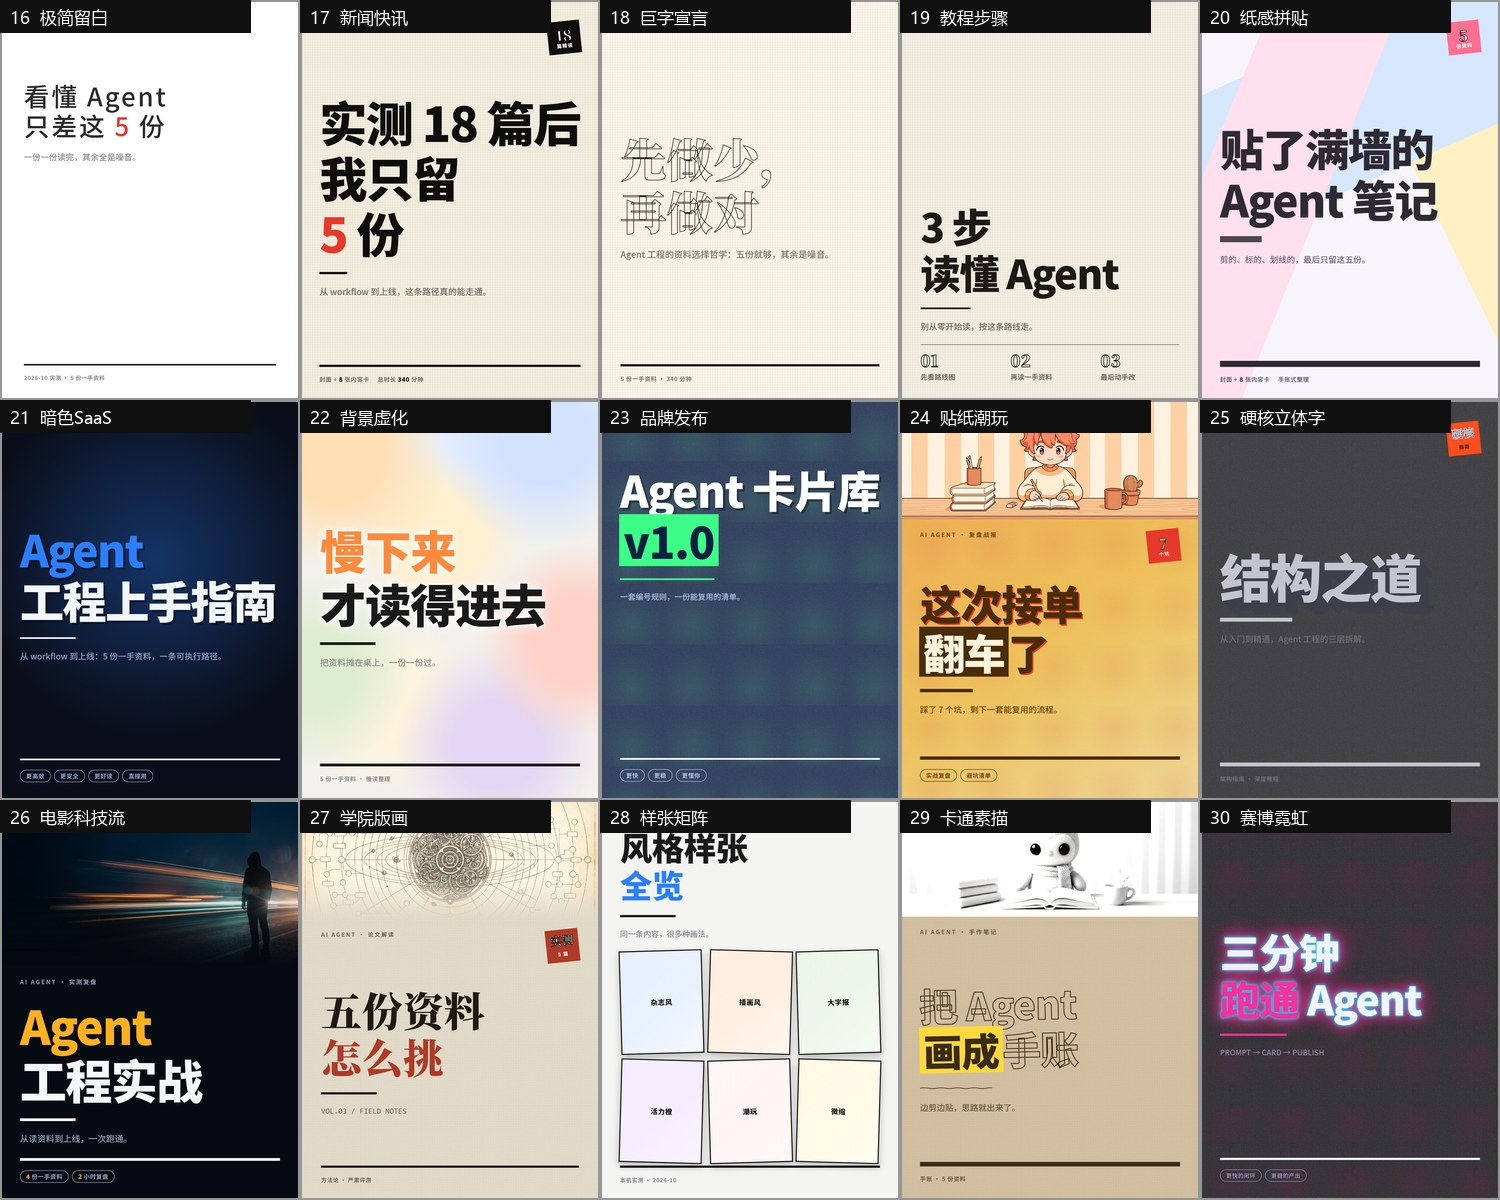
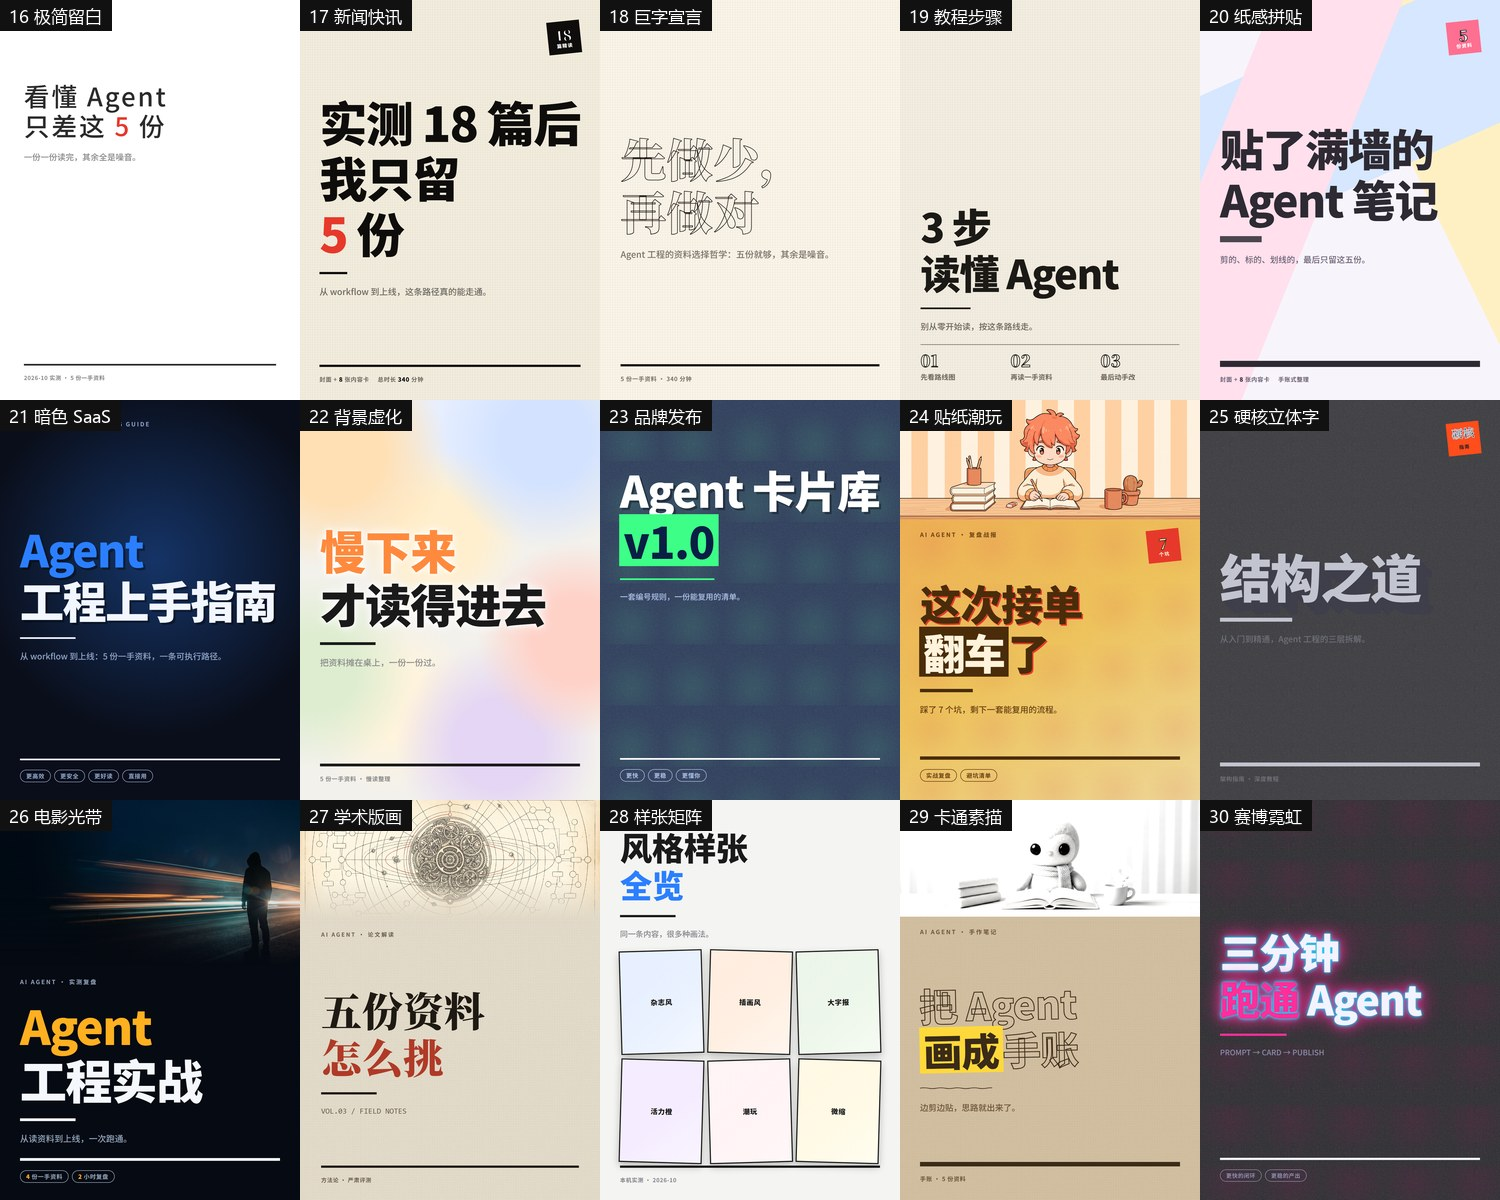
Register STYLE-16..30 as candidates; fix 27 double-accent and 26 name; document new poster tokens

diff --git a/references/STYLE-01-editorial.md b/references/STYLE-01-editorial.md
@@ -279,6 +279,48 @@ FAIL 00-cover    0 bytes  ⚠ ART MISSING — png deleted
 | `posterInk` / `posterInkMuted` | 标题与次要文字色。独立于 `colors.ink`（那个是按纸底调的） |
 | `posterTagInk` | 标签里 `<b>` 的颜色。亮底风格必调，否则白字压在橙底上看不清 |
 | `posterSealBg` / `posterSealInk` | 印章配色 |
-| `posterTexture` | `none` / `grain`（胶片噪点）/ `paper`（纸纹网格）/ `glow`（径向光晕） |
+| `posterSealNumSize` | 印章里的数字字号。默认 52px，两个中文字会挤（104px 塞进 118px 的章） |
+| `posterBlkBg` / `posterBlkInk` | 标题里 `<span class="blk">` 的色块底色与字色。默认取 `colors.accent` |
+| `posterTexture` | `none` / `grain`（胶片噪点）/ `paper`（纸纹网格）/ `glow`（径向光晕）/ `bokeh`（散景）/ `grid`（网格+光晕）。**可以写成数组**，多层会合成到同一个 `background-image` 里 |
+| `posterGlowAt` | `glow` 纹理的光晕位置，默认 `52% 40%` |
+| `posterBokeh` | `[[x%, y%, 半径%, 颜色], ...]`，散景光斑。纯 CSS 渐变堆出来，不依赖照片 |
 | `posterArtH` / `posterArtPosition` | 插画带高度与裁切焦点 |
+| `posterArtFade` | 插画带底部渐隐进底色的像素数。默认 0 = 硬边；照片带配深底必须开，否则会看到一条接缝 |
+| `posterArtFilter` | `none` / `sketch`（去色+提对比，3D 渲染变手绘线稿）/ `duo`（纯灰度） |
 | `posterRuleW` / `posterRuleH` | 标题下色条尺寸 |
+| `posterRuleColor` | 色条颜色，默认跟标题同色 |
+| `posterRuleStyle` | `solid` / `dashed` / `wavy`（手绘抖线） |
+| `posterRuleOpacity` | 色条不透明度 |
+| `posterTagStyle` | `plain` / `chip`（胶囊徽标） |
+| `posterFlow` | `bottom`（标题沉底，默认）/ `top`（标题紧跟眉题，中间留白） |
+| `posterTitleWeight` / `posterTitleLS` / `posterTitleFamily` | 标题字重 / 字距 / 字体栈 |
+| `posterTitleRotate` | 标题整体旋转角度（度） |
+| `posterSubFamily` | 副标题字体栈。学术/工业风用等宽，副标写英文才立得住 |
+| `posterStepsStyle` | `rule`（刻度时间线，默认）/ `flow`（发光管线，连线穿过数字） |
+| `posterGridCols` / `posterGridGap` / `posterGridTilt` | 样张矩阵的列数 / 间距 / 逐格错开角度 |
+| `posterGridFrame` / `posterGridBg` / `posterGridInk` | 样张矩阵的画框色 / 画芯底色 / 画芯字色 |
+| `posterGridTints` | 每格不同浅色渐变。全同色会立刻变回被否掉的 02–05 那种 PPT 表格 |
+| `posterBgGradient` | 额外叠一层底色渐变 |
+
+### 标题的特效（`titleEffect`）
+
+`''`（默认）/ `lift` / `outline` / `shadow` / `extrude` / `neon` / `glow` / `halo`。
+配套 token：`posterOutlineW`（描边粗细）、`posterOutlineColor`、`posterExtrudeStep` /
+`posterExtrudeLayers` / `posterExtrudeColor`、`posterNeonA` / `posterNeonB`、
+`posterGlowColor`、`posterHaloColor`、`posterShadowColor` / `posterShadowOffset`。
+
+两条实测出来的硬规矩：
+
+1. **描边必须配衬线体。** 思源黑体 900/700 的字腔太窄，2.6px 描边会把笔画全粘死成一团线框；
+   思源宋体 900 + 2px 才是书法味的空心字。所以 `18` 巨字宣言用 `posterTitleFamily` 换成宋体。
+2. **立体挤出不能靠模糊阴影。** 阴影读起来就是投影，而这套要的是「硬边挤出」——
+   渲染器用 N 层同色硬偏移叠出来，侧边才保持是硬的（`25` 硬核立体字）。
+
+### 插画带的渐隐与去色
+
+`posterArtFade` 给插画带底部加一段 mask 渐变。照片带贴在深底上时，不渐隐会看到一条
+硬接缝 —— 那道缝就是「贴上去的照片」的证据；渐隐之后带子和底色连成一片（`26` 电影光带）。
+纸感插画（`27` 铜版画）用小值（100–150px）就够，照片用 240–260px。
+
+`posterArtFilter: sketch` 把 3D 渲染去色提对比，套上牛皮纸底就读成手绘线稿（`29` 卡通素描），
+是「同一张素材当两种风格用」最省事的办法。

diff --git a/docs/style-gallery.md b/docs/style-gallery.md
@@ -151,6 +151,37 @@
 
 ---
 
+## 候选：`16`–`30`（2026-10-20 新增 15 套）
+
+从 topmind-cover 的 22 套配方移植过来的一批，**全部走 `poster` 版式，全部还是候选**。
+用户挑中哪几套再转正式启用。先看总览：
+
+![候选风格 16-30 总览](candidates/overview-16-30.jpg)
+
+| 编号 | 名称 | 一句话 | 成图 |
+|---|---|---|---|
+| `16` | 极简留白 | 米白底 + 大留白，朱红只点一个数字 | <img src="candidates/style-16-cover.jpg" width="150"> |
+| `17` | 新闻快讯 | 纸纹米底 + 纯黑巨字 + 右上角黑章 | <img src="candidates/style-17-cover.jpg" width="150"> |
+| `18` | 巨字宣言 | 描边宋体巨字 + 大量留白 | <img src="candidates/style-18-cover.jpg" width="150"> |
+| `19` | 教程步骤 | 巨字 + 底部线框数字时间线 | <img src="candidates/style-19-cover.jpg" width="150"> |
+| `20` | 纸感拼贴 | 马卡龙斜切色块 + 粉色印章 | <img src="candidates/style-20-cover.jpg" width="150"> |
+| `21` | 暗色 SaaS | 深海军蓝 + 玻璃胶囊标签 | <img src="candidates/style-21-cover.jpg" width="150"> |
+| `22` | 背景虚化 | 暖白散景底 + 墨黑巨字 | <img src="candidates/style-22-cover.jpg" width="150"> |
+| `23` | 品牌发布 | 深蓝底 + 荧光绿关键词块 | <img src="candidates/style-23-cover.jpg" width="150"> |
+| `24` | 贴纸潮玩 | 橙黄暖底 + 贴纸徽章 | <img src="candidates/style-24-cover.jpg" width="150"> |
+| `25` | 硬核立体字 | 混凝土底 + 硬边挤出 3D 巨字 | <img src="candidates/style-25-cover.jpg" width="150"> |
+| `26` | 电影光带 | 长曝光光带插画带 + 琥珀点睛 | <img src="candidates/style-26-cover.jpg" width="150"> |
+| `27` | 学术版画 | 铜版雕刻插图带 + 宋体巨标题 | <img src="candidates/style-27-cover.jpg" width="150"> |
+| `28` | 样张矩阵 | 一墙微倾的样张画框 | <img src="candidates/style-28-cover.jpg" width="150"> |
+| `29` | 卡通素描 | 牛皮纸底 + 去色线稿 + 描边标题 | <img src="candidates/style-29-cover.jpg" width="150"> |
+| `30` | 赛博霓虹 | 青品红双光晕标题 + 网格底纹 | <img src="candidates/style-30-cover.jpg" width="150"> |
+
+其中 `24`/`26`/`27`/`29` 是**插画型**，素材在 `assets/art-pool/`；
+其余是**纯文字海报**，不依赖素材，中文零风险。
+`26`/`27` 的插画是 AI 生成的（长曝光光带 / 铜版雕刻），换内容不用重新生图。
+
+---
+
 ## `02`–`05` 已作废
 
 这四套被判掉的原因是同一个：**版式太像 PPT / 报表**。留图是为了说明新风格为什么要避开那些做法，

diff --git a/SKILL.md b/SKILL.md
@@ -101,7 +101,8 @@ description: |
 「新增一套风格」一节。三条最容易做错的：
 
 1. **不要先给编号**。编号库的规矩是先出样张、用户认可后才分配。用户没看过成图，
-   不要急着回「好，创建 STYLE-16」。下一个可用编号是 `16`，`02`–`05` 作废且不复用。
+   不要急着回「好，创建 STYLE-31」。下一个可用编号是 `31`，`02`–`05` 作废且不复用，
+   `07`–`30` 都已登记（`07`–`09` 和 `16`–`30` 是候选，`10`–`15` 已启用）。
 2. **照抄 token 字段结构**。新风格通常只换 `colors` + `type` 两个段，
    别自己发明新字段 —— 渲染器只认 `STYLE-01-editorial.json` 里有的那些。
 3. **做完必须 commit + push**。skill 目录本身是 git 工作区，
@@ -112,7 +113,8 @@ cd ~/.minimax/skills/knowledge-cards
 git add -A && git commit -m "Add STYLE-NN <name>" && git push
 ```
 
-用户想看长什么样可以直接翻 [`docs/style-gallery.md`](docs/style-gallery.md)（15 套并排成图）。
+用户想看长什么样可以直接翻 [`docs/style-gallery.md`](docs/style-gallery.md)（15 套已启用并排成图），
+新候选看 [`docs/candidates/overview-16-30.jpg`](docs/candidates/overview-16-30.jpg)（`16`–`30` 共 15 套）。
 
 ## Failure handling
 
